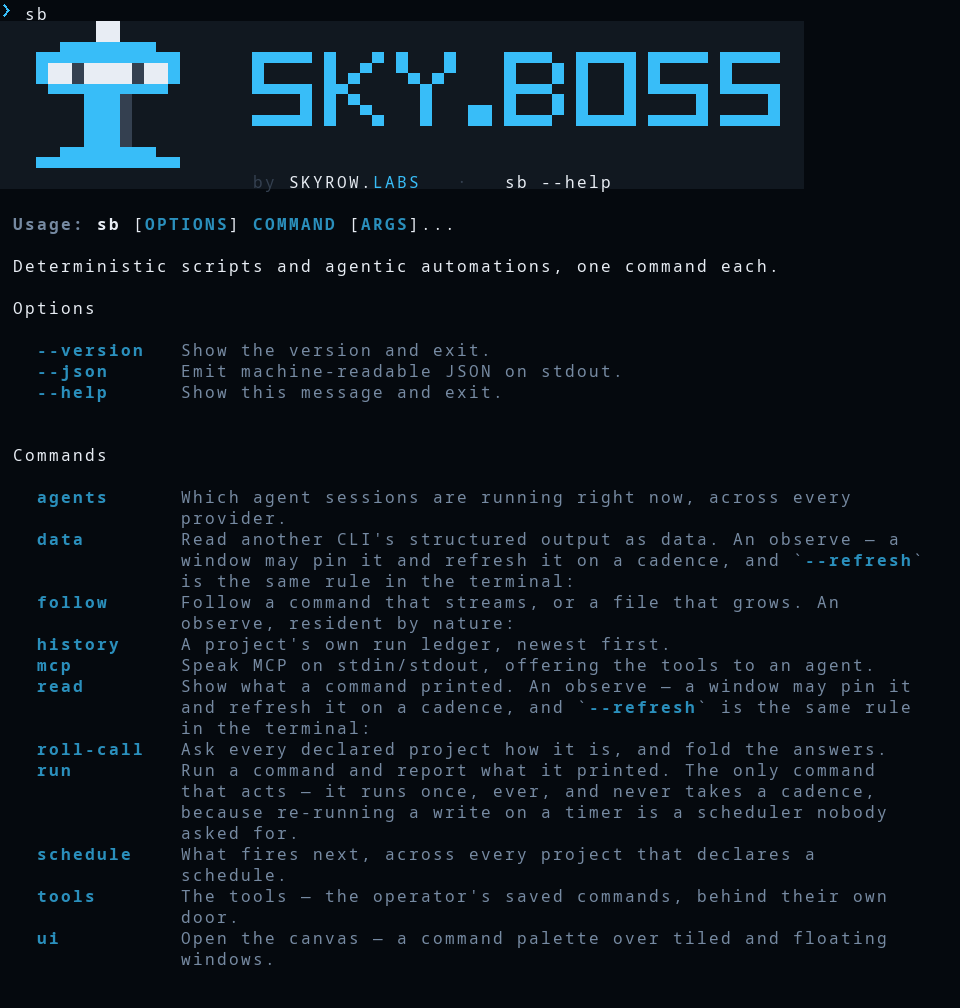
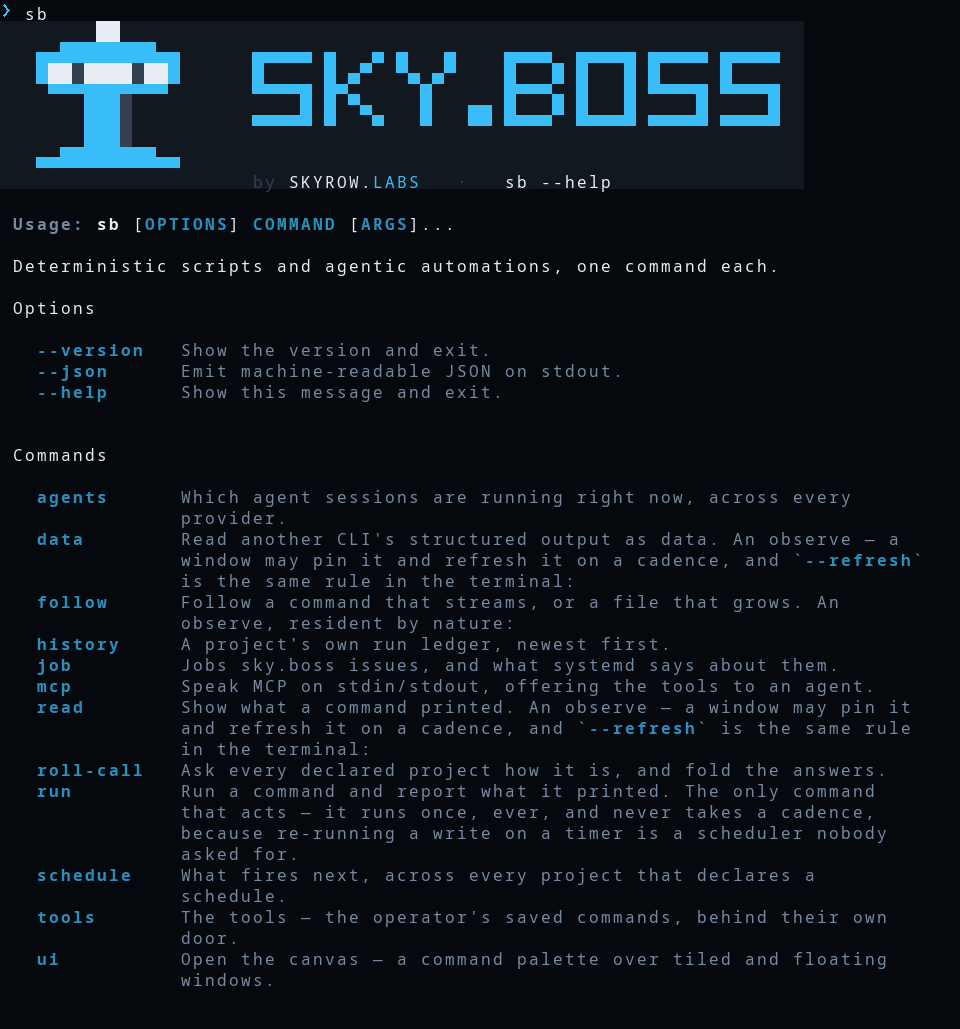
docs: close jobs round 1, and correct a rule it made false
The scope rule said "`sb run` is the single command that acts". That is
now false and is corrected rather than left: `sb run` is the single
*top-level* command that acts, and `sb job` is the group that returned,
splitting per-command — list observes, run/install/uninstall act.

The correction carries the thing that made it non-obvious. The split did
not enforce itself: `acts` is derived from a top-level `run`, so all
three acting subcommands reached the surface labelled observes, which
would have let a window give `sb job run` a refresh cadence — the
"scheduler nobody asked for" arriving through the feature that exists to
be a scheduler. A nested command asserts the bit or silently inherits the
wrong one.

Item 6 closes for anything sky.boss schedules and stays open for anything
it merely runs: a job's name is an identity that outlives every window
and the ledger is keyed by it, but `sb run -- argv` is still anonymous
and still dies with its window.

Item 7 gets half a mechanism, inside its advisory ruling: a lane is an
advisory flock between sky.boss's own jobs. The reading half — contention
between jobs sky.boss did not start — is still the cwd/worktree
derivation and still unbuilt.

Two worked examples in two days named something that does not exist —
`started_at` in history, `daily 06:00` here — and both were caught by
running the thing rather than reading it. A block written to be pasted is
the one place a wrong guess costs a reader directly.
[…]

diff --git a/docs/features/done/jobs.md b/docs/features/done/jobs.md
@@ -1,9 +1,9 @@
 ---
-status: draft
+status: complete
 created: 2026-09-01
 updated: 2026-09-01
 agent_value: 3
-key_files: [cli/jobs.py, cli/schedule.py, cli/rollcall.py, cli/helpers.py]
+key_files: [cli/jobs.py, tests/test_jobs.py, cli/__init__.py, docs/design/fundamentals.md]
 ---
 
 # Jobs — sky.boss issues a schedule of its own
@@ -204,19 +204,19 @@ item's **advisory** ruling: sky.boss declines to start *its own* job. It never s
 
 ### Round 1 — a job that runs, records, and cannot double-fire (2026-09-01)
 
-- [ ] `$SB_HOME/jobs.toml` parsed and validated in `cli/jobs.py`: unknown keys named and ignored,
+- [x] `$SB_HOME/jobs.toml` parsed and validated in `cli/jobs.py`: unknown keys named and ignored,
       one bad definition never costing the others, `argv` refused as a string.
-- [ ] `sb job list` — every job with its lane, schedule, installed state and **drift**, read back
+- [x] `sb job list` — every job with its lane, schedule, installed state and **drift**, read back
       from `systemctl --user` rather than remembered.
-- [ ] `sb job run <name>` — foreground, honouring `timeout`, mirroring the job's exit code, taking
+- [x] `sb job run <name>` — foreground, honouring `timeout`, mirroring the job's exit code, taking
       its lane's `flock` and recording `refused` if it cannot.
-- [ ] Every run appends to `$SB_STATE/jobs/ledger.jsonl` with a captured log beside it — including
+- [x] Every run appends to `$SB_STATE/jobs/ledger.jsonl` with a captured log beside it — including
       failures, timeouts and refusals. Nothing runs unlogged, in any phase.
-- [ ] `sb job install <name>` / `uninstall` — generates `sb-<name>.service` and `.timer`,
+- [x] `sb job install <name>` / `uninstall` — generates `sb-<name>.service` and `.timer`,
       `OnCalendar` validated by `systemd-analyze calendar`. Generating never enables.
-- [ ] `install` **refuses a collision** against `crontab -l` and the live timers, naming the
+- [x] `install` **refuses a collision** against `crontab -l` and the live timers, naming the
       entry; `--force` installs alongside.
-- [ ] A test asserting no generated unit ever references a unit outside the `sb-` prefix.
+- [x] A test asserting no generated unit ever references a unit outside the `sb-` prefix.
 
 ### Round 2 — layering it into the schedule (not scheduled)
 
@@ -260,3 +260,63 @@ timer, systemd already does well. What nothing does well is the window in which 
 sides — and that window is opened by design, since the operator deactivates their own cron. Drift
 detection and a refusing `install` are therefore round 1 rather than polish; a layered schedule
 without them is a machine that silently runs the same agent twice on one working tree.
+
+### Round 1 — built (2026-09-01)
+
+**The spec's own worked example did not work.** `schedule = "daily 06:00"` is not `OnCalendar`
+syntax, and systemd rejected it on the first live install. That is the validator earning its place
+on the day it shipped — and the second worked example in two days that named something that does
+not exist, after [[history]]'s `started_at`. The pattern is worth naming: **a block written to be
+pasted is the one place a wrong guess costs a reader directly**, and both were caught by running the
+thing rather than by reading it. Corrected in place.
+
+**The collision check moved from the clock to the command, and it is a better check.** The spec
+said *opaque busy windows*, which implies time — and comparing times would have needed cron parsed
+on one side, the thing this whole feature refuses. The hazard was never *two things fire at 02:00*;
+it is *the same work runs twice*, which is exactly what a half-finished handover leaves behind. So
+a job's payload — its argv with sky.boss's own wrapper stripped — is matched against crontab lines
+and foreign `ExecStart` lines as text. `jam report overnight` is what both sides say.
+
+Its limits are stated rather than implied, because a check with unstated limits reads as a
+guarantee: it sees the invoking user's crontab and the user units in `XDG_CONFIG_HOME`, and not
+system units, other users, or another supervisor. And a payload too short to be distinctive returns
+**cannot check** rather than clean — matching `true` against every crontab line would find a
+collision in somebody's `PATH`, and reporting no match for it would be worse.
+
+**`ExecStart` goes through `sb job run <name>`, not the job's argv**, and this turned out to be the
+single most load-bearing line in the design. It is what makes a timed run and a manual run the same
+run: same lane, same timeout, same ledger. A unit that executed the argv directly would bypass all
+three for precisely the runs nobody is watching.
+
+**A real defect, found by reading the catalog rather than by anything failing.** All three acting
+subcommands reached the surface as **observes**, because `acts` is derived from a *top-level* `run`
+and anything nested can only act by declaring `sb_acts`. An observe may be given a refresh cadence
+— so a pinned `sb job run` window would have been the *"scheduler nobody asked for"* that rule
+exists to prevent, arriving through the feature that exists to be a scheduler. Nothing was red.
+
+The gate is scoped and recomputed: **every** subcommand of the group must declare `sb_acts`,
+observes included, because a missing attribute and a declared `False` are the same value to
+`getattr` and only one of them is a decision. Listing the three that were wrong would have pinned
+them and stayed silent on `sb job enable`.
+
+**`Documentation=man:sb(1)` was written and deleted before it was committed.** There is no man
+page. A generated file that makes a false claim is worse than one that says nothing, and a unit
+nobody reads is exactly where such a claim survives. The units now say they are generated and that
+edits to them are invisible to `sb job list`.
+
+**Three tests were deliberately not written against the real tools.** `systemd-analyze`, `crontab`
+and a working `systemctl --user` are all things a CI container may not have, so the strings being
+parsed were captured verbatim from the real tools on this machine and pinned as fixtures. A test
+whose environment differs from CI's is a test about your machine — and the suite must never issue a
+real `systemctl --user disable`, which `uninstall` does, so `_systemctl` is stubbed for the whole
+module by an autouse fixture.
+
+**All five outcomes were exercised live before the commit that claimed them**, not just asserted:
+`ok`, `failed`, `timeout` and `refused` end to end against the real wrapper, `partial` by
+injection. The lane refusal needed two concurrent runs to produce, and the two runs in the same
+second it took to test it are why a `run_id` carries a random suffix as well as a stamp.
+
+**What round 1 does not have is a way to see a job's history**, and that is round 3 rather than an
+oversight: the ledger is being written from the first run, and reading it back is [[history]]'s
+shape over sky.boss's own runs. Until then `sb data <ledger> --from jsonl` reads it, which is how
+[[history]] round 1 described its own subject before it had a command.

diff --git a/CLAUDE.md b/CLAUDE.md
@@ -80,6 +80,7 @@ replaced by a browser one the same day. What exists:
 | `sb roll-call` | Asks every declared project how it is and folds the answers. An observe. See [[roll-call]] |
 | `sb agents` | Which agent sessions are running right now, across every provider. An observe. See [[agent-sessions]] |
 | `sb history <project>` | A project's own run ledger, newest first. An observe, and the only one that looks backwards. See [[history]] |
+| `sb job` | Jobs sky.boss **issues**. `list` observes; `run`, `install` and `uninstall` act. systemd is the daemon. See [[jobs]] |
 | `sb schedule` | What fires next, across projects, ordered by the parsed instant. An observe; it schedules nothing. See [[schedule]] |
 | `sb mcp` | Speaks MCP on stdio, offering the tools to an agent. A surface. See [[mcp]] |
 | `sb tools` | Lists the operator's saved commands, and any that failed to load, grouped |
@@ -114,9 +115,17 @@ document, and correct the document when it has fallen behind.
 ## Scope
 
 There is no taxonomy to defend yet. The one property worth preserving from the version that was
-removed is this: **`sb run` is the single command that acts.** Everything else reads. When a group
-of commands returns, that is the line to keep — a command that wants to both read and write is two
-commands.
+removed is this: **`sb run` is the single *top-level* command that acts.** Everything else at that
+level reads. When a group of commands returns, that is the line to keep — a command that wants to
+both read and write is two commands.
+
+**`sb job` is the group that returned, on 2026-09-01, and it splits exactly that way**: `list`
+observes, while `run`, `install` and `uninstall` act and say so. What matters is that the split
+stayed per-command rather than per-group. And the enforcement did **not** come free — `acts` is
+derived in `cli/canvas/catalog.py` from a *top-level* `run`, so all three acting subcommands
+reached the surface labelled as observes, which would have let a window give `sb job run` a refresh
+cadence. A nested command asserts the bit with `sb_acts` or it silently inherits the wrong one; the
+group's own test now fails on a subcommand that never chose. See [[jobs]].
 
 That line is now load-bearing rather than aesthetic. The canvas reads it — `acts` in the catalog —
 to decide whether a window may be given a refresh cadence, because **re-running a read is a
@@ -1001,7 +1010,8 @@ surface, five rounds), `follow.md` (the streaming substrate, four rounds), `tool
 rounds), `highlight.md` (lexical tint, four rounds), `capture.md` (declared structure),
 `refresh.md`, `header.md` (the mark, two rounds), `text-reads.md`, `subprocess-env.md`, `table-views.md` (the
 shaping contract, five rounds), `roll-call.md` (federating over projects), `agent-sessions.md` (who is running, and the adapter
-seam), `history.md` (a provider's ledger, backwards), `file-follow.md` (the
+seam), `history.md` (a provider's ledger, backwards),
+`jobs.md` (a schedule sky.boss issues), `file-follow.md` (the
 native cursor, two rounds), `chrome.md` (what a window knows about its output, three rounds), `mcp.md` (the tools offered to
 an agent), `delay.md` (once, later), `workbench.md` (the authoring surface, three rounds — opened
 and finished 2026-08-26/27), and the constitution's rounds as they land.

diff --git a/docs/open.md b/docs/open.md
@@ -239,6 +239,13 @@ since sky.boss is the authority for what sky.boss ran. *A job running with no wi
 execution, squarely. Whoever reopens this should say which they want; the answers are different
 sizes.
 
+***Both were taken, hours later, by [[jobs]].*** A declared job's **name** is an identity that
+outlives every window, and `$SB_STATE/jobs/ledger.jsonl` is the record keyed by it — so the
+federation question is answered in the affirmative for sky.boss's own runs, and execution is
+crossed deliberately with a dated decision. **This closes item 6 for anything sky.boss schedules
+and leaves it open for anything sky.boss merely runs**: `sb run -- <argv>` is still anonymous and
+still dies with its window, which is the `--label` the mockup drew and nothing has needed yet.
+
 **7. The claim.** Several agentic jobs contending for one working tree is a real fact with no
 vocabulary in sb. The mockup renders it as a glyph and a contested band; what it *means* — advisory
 label, or something that actually blocks a departure — was undecided, and those are very different
@@ -288,6 +295,16 @@ grid; it is the agents item 16 went and found.
 
 **Still open:** which of those two, and whether an advisory claim is worth building before there is
 a band to draw it in. Not blocked on a decision any more — blocked on wanting it.
+
+**Half of it arrived with a mechanism on 2026-09-01 → [[jobs]] round 1.** A job declares a `lane`,
+and a lane is an advisory `flock`: a job that cannot take its lane records `refused` and does not
+run. That is contention between **sky.boss's own** jobs, enforced, and it stays inside the advisory
+ruling above — sky.boss declines to start its own work and never stops anyone else's. The
+`Conflicts=` alternative was rejected for a measured reason worth keeping: it *stops* the
+conflicting unit rather than waiting or refusing, which is preemption dressed as mutual exclusion,
+and a scheduled job would have killed a running one. What is still unbuilt is the reading half —
+contention between jobs sky.boss did **not** start, which is where the `cwd`/worktree derivation
+above still applies.
 
 **8. The budget.** ~~A wall-clock ceiling on a run.~~ **Answered 2026-08-29: the supervisor owns
 it and sky.boss displays it.** The mockup put `--budget` on `follow`, which is a contradiction —

diff --git a/README.md b/README.md
@@ -66,6 +66,7 @@ Needs Python 3.11+. Shell completion for fish:
 | `sb schedule` | What fires next, across every project that declares a schedule |
 | `sb agents` | Which agent sessions are running right now, across every provider |
 | `sb history <project>` | A project's own run ledger, newest first |
+| `sb job` | Jobs sky.boss issues — declared, installed as systemd timers, logged |
 | `sb tools` | The commands you saved |
 | `sb ui` | Opens the surface — a canvas of windows, and a workbench for authoring a command |
 | `sb mcp` | Speaks MCP on stdio, offering your saved commands to an agent |
